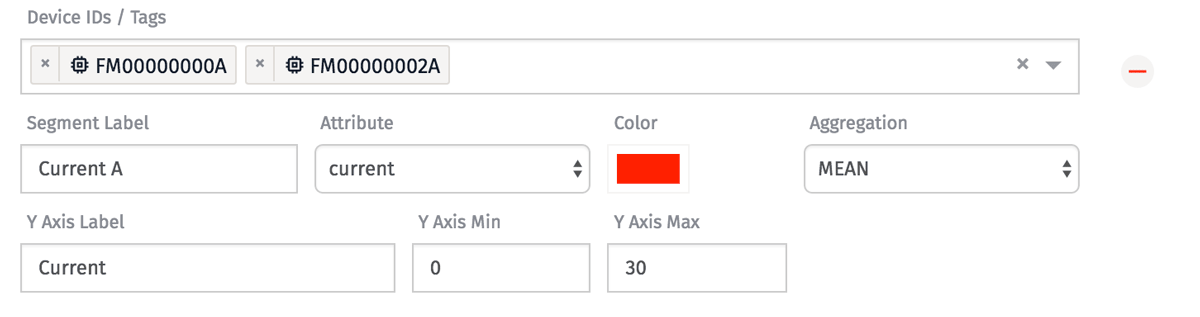
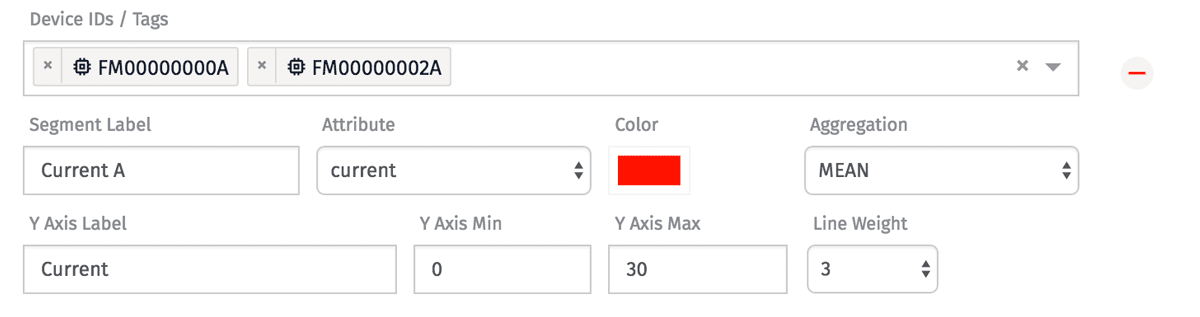
edits (updated image and integrated line weight in with color explanation

diff --git a/docs/dashboards/time-series-graph.md b/docs/dashboards/time-series-graph.md
@@ -36,12 +36,10 @@ Each series can also aggregate the same attribute across multiple devices; there
 
 When this is graphed, it is now a single series that contains the average temperature of both devices.
 
-You also have the option of setting a custom color for each line on the time series graph. Colors will automatically be assigned in the event you do not assign a color.
+You may also set a custom color for each line on the time series graph, as well as the weight of each line (when "Display Type" is set to "Line"). Colors will automatically be assigned in the event you do not assign a color, and line weight defaults to the middle value.
 
 The minimum and/or maximum y-axis values may be manually set for each data series. If at any point the line extends beyond a defined minimum or maximum value, the time series line will disappear off the edge of the graph until the data returns to the defined window.
 
 If you choose not to define a y-axis minimum or maximum value, the time series graph will automatically define a scale based on the data set it is currently rendering for the data series.
 
 The Segment Label (in this case "Current A" is used to name this particular data series, and will be the label shown in the graph legend.  The y-axis label is used to name the y-axis for this series - if it is left blank, the name of the selected attribute is used.  Series that use the same y-axis labels share that axis on the resulting graph.
-
-Finally, when the Line Display Type is set to "Line", each segment also takes a "Line Weight" property, which defines the thickness of the line displayed on the chart for that segment on a 1 (thin) to 5 (thick) scale.
